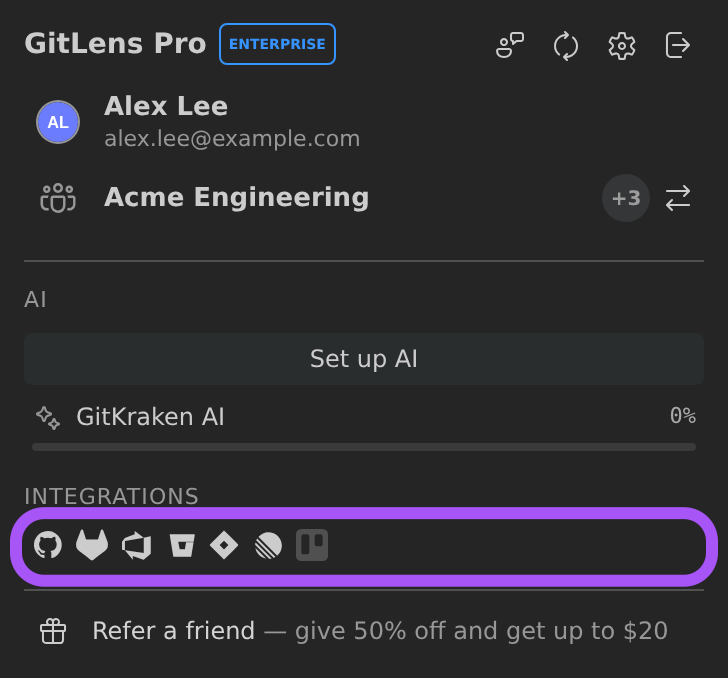
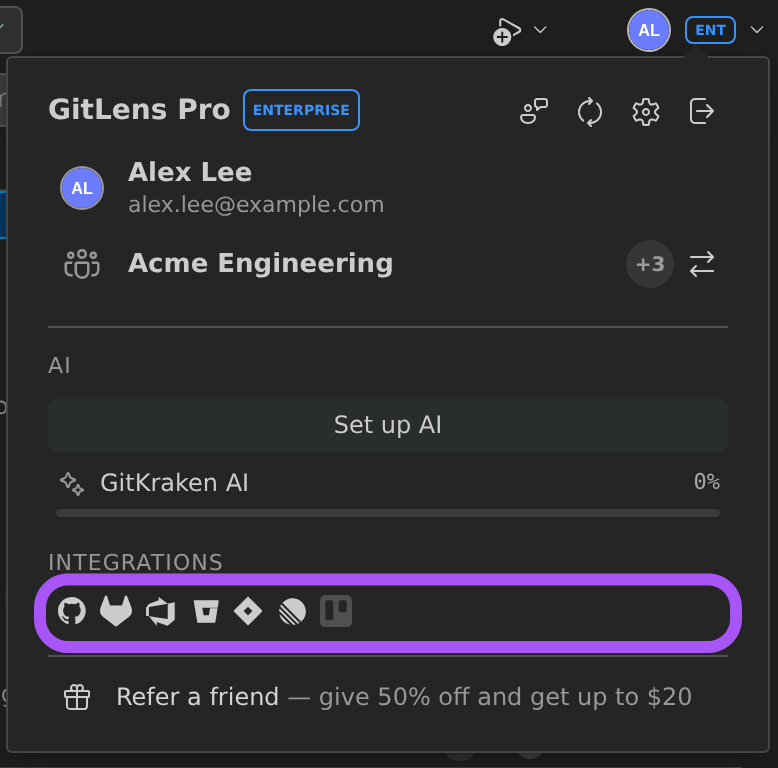
docs(gitlens): round-2 fixes after re-review (PR #165)
gl-connect-remote-integration-01 crop now includes the header account button
the steps point to; gl-commit-graph-full-01 recaptured on the graph surface
(placeholder avatar, Working Changes selected, no hover) at 620 px; account
alt no longer claims masked figures; figcaption for the integrations image
matches it.

diff --git a/gitlens/gitlens-settings.md b/gitlens/gitlens-settings.md
@@ -27,7 +27,7 @@ You can deep-link to any category by appending its anchor to the command: `gitle
 The **Account** and **Get Started** entries at the top of the navigation rail cover account management and onboarding.
 
 <figure>
-  <img src="/wp-content/uploads/gl-settings-account-01-v4@2x.png" alt="GitLens Settings with the Account category selected, stacked as cards: the signed-in identity with Manage Account and Sign Out, the plan card with its tier badge and included features, the GitKraken AI Usage card with its weekly credits bar and reset date, the active organization and a referral card (account details and usage figures masked here)." class="help-center-img img-bordered">
+  <img src="/wp-content/uploads/gl-settings-account-01-v4@2x.png" alt="GitLens Settings with the Account category selected, stacked as cards: the signed-in identity with Manage Account and Sign Out, the plan card with its tier badge and included features, the GitKraken AI Usage card with its weekly credits bar and reset date, the active organization and a referral card; the name, e-mail and organization are placeholder values." class="help-center-img img-bordered">
   <figcaption style="text-align:center; color:#888">Account category</figcaption>
 </figure>
 

diff --git a/gitlens/GL-Parallel-dev-workflow.md b/gitlens/GL-Parallel-dev-workflow.md
@@ -13,7 +13,7 @@ Modern development rarely happens in a single branch. Developers and coding agen
 
 The Commit Graph brings those streams together in one development workbench. See what’s changing, understand where work is happening, identify what needs your attention, and move work forward without jumping between branches, terminal sessions, and disconnected views.
 <figure>
-  <img src="/wp-content/uploads/gl-commit-graph-full-01-v2@2x.png" alt="The Commit Graph filling the GitLens side bar: the branch toolbar with Push and Fetch, the natural-language search box, the Working Changes row, and commit rows with branch and tag pills, authors, and short SHAs." class="help-center-img img-bordered">
+  <img src="/wp-content/uploads/gl-commit-graph-full-01-v2@2x.png" alt="The Commit Graph in the GitLens side bar: the branch toolbar with Push and Fetch, the natural-language search box, the selected Working Changes row, and commit rows with their branch and tag pills." class="help-center-img img-bordered">
   <figcaption style="text-align:center; color:#888">GitLens Commit Graph</figcaption>
 </figure>
 

diff --git a/gitlens/GL-Branch-Prep-to-ship.md b/gitlens/GL-Branch-Prep-to-ship.md
@@ -19,7 +19,7 @@ Start in the Commit Graph to understand your branch in the context of the reposi
 See HEAD, upstream, merge target, incoming work, and ahead and behind status together so you can quickly understand what has changed and what needs attention before moving forward.
 
 <figure>
-  <img src="/wp-content/uploads/gl-commit-graph-full-01-v2@2x.png" alt="The Commit Graph filling the GitLens side bar: the branch toolbar with Push and Fetch, the natural-language search box, the Working Changes row, and commit rows with branch and tag pills, authors, and short SHAs." class="help-center-img img-bordered">
+  <img src="/wp-content/uploads/gl-commit-graph-full-01-v2@2x.png" alt="The Commit Graph in the GitLens side bar: the branch toolbar with Push and Fetch, the natural-language search box, the selected Working Changes row, and commit rows with their branch and tag pills." class="help-center-img img-bordered">
 </figure>
 
 When you have no uncommitted changes, the Working Changes details panel shows a **Next steps** list. The list suggests only the actions that apply to your branch right now:

diff --git a/gitlens/gitlens-home.md b/gitlens/gitlens-home.md
@@ -28,7 +28,7 @@ GitLens brings your repository context and development workflows directly into y
 The Commit Graph is your central development workbench in GitLens. It brings commits, branches, working changes, worktrees, upstream state, and supported coding agent activity together in one connected view.
 
 <figure>
-  <img src="/wp-content/uploads/gl-commit-graph-full-01-v2@2x.png" alt="The Commit Graph filling the GitLens side bar: the branch toolbar with Push and Fetch, the natural-language search box, the Working Changes row, and commit rows with branch and tag pills, authors, and short SHAs." class="help-center-img img-bordered">
+  <img src="/wp-content/uploads/gl-commit-graph-full-01-v2@2x.png" alt="The Commit Graph in the GitLens side bar: the branch toolbar with Push and Fetch, the natural-language search box, the selected Working Changes row, and commit rows with their branch and tag pills." class="help-center-img img-bordered">
   <figcaption style="text-align:center; color:#888">GitLens Commit Graph view</figcaption>
 </figure>
 

diff --git a/gitlens/home-view.md b/gitlens/home-view.md
@@ -14,7 +14,7 @@ From here, you can understand what’s happening across your repository, coordin
 
 **One Graph. Your development workflow, end to end.**
 <figure>
-  <img src="/wp-content/uploads/gl-commit-graph-full-01-v2@2x.png" alt="The Commit Graph filling the GitLens side bar: the branch toolbar with Push and Fetch, the natural-language search box, the Working Changes row, and commit rows with branch and tag pills, authors, and short SHAs." class="help-center-img img-bordered">
+  <img src="/wp-content/uploads/gl-commit-graph-full-01-v2@2x.png" alt="The Commit Graph in the GitLens side bar: the branch toolbar with Push and Fetch, the natural-language search box, the selected Working Changes row, and commit rows with their branch and tag pills." class="help-center-img img-bordered">
   <figcaption style="text-align:center; color:#888">GitLens Commit Graph</figcaption>
 </figure>
 

diff --git a/gitlens/gitlens-features.md b/gitlens/gitlens-features.md
@@ -1441,7 +1441,7 @@ To connect an integration:
 
 <figure>
   <img src="/wp-content/uploads/gl-connect-remote-integration-01-v4@2x.png" srcset="/wp-content/uploads/gl-connect-remote-integration-01-v4@2x.png" alt="The Commit Graph header's account menu open with its Integrations row ringed; the row shows the connected providers and opens GitLens Settings > Integrations." class="help-center-img img-bordered">
-  <figcaption style="text-align: center; color: #888;">Choose an integration to connect</figcaption>
+  <figcaption style="text-align: center; color: #888;">Open your integrations from the Commit Graph account menu</figcaption>
 </figure>
 
 If you're not already signed in, you'll be prompted to log in to your GitKraken account. Then, select **Connect with GitHub** or **Connect with GitLab**, and follow the sign-in steps. You can connect multiple integrations if needed.

diff --git a/gitlens/side-bar.md b/gitlens/side-bar.md
@@ -70,7 +70,7 @@ From the Commit Graph you can see:
 - Supported coding agent sessions and their status, including sessions that need your attention.
 
 <figure>
-  <img src="/wp-content/uploads/gl-commit-graph-full-01-v2@2x.png" class="help-center-img img-bordered" alt="The Commit Graph filling the GitLens side bar: the branch toolbar with Push and Fetch, the natural-language search box, the Working Changes row, and commit rows with branch and tag pills, authors, and short SHAs.">
+  <img src="/wp-content/uploads/gl-commit-graph-full-01-v2@2x.png" class="help-center-img img-bordered" alt="The Commit Graph in the GitLens side bar: the branch toolbar with Push and Fetch, the natural-language search box, the selected Working Changes row, and commit rows with their branch and tag pills.">
 </figure>
 
 ### Source Control Sidebar
